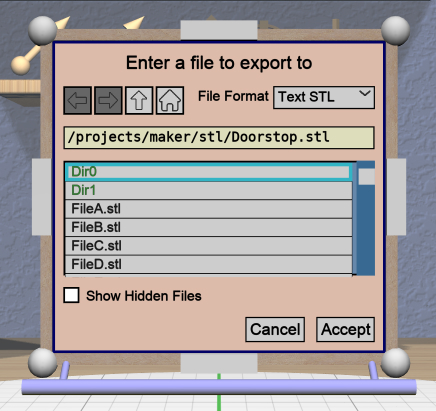
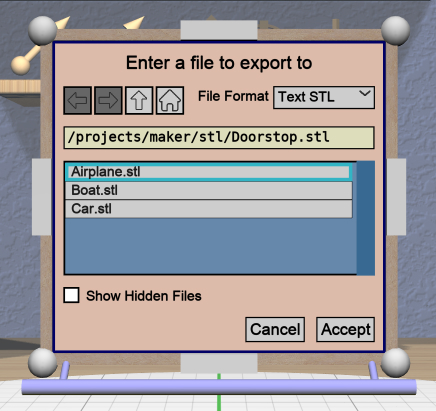
Fixed a couple of problems causing incorrect images.

Changed region(s): [[0.1491, 0.4088, 0.8349, 0.6715], [0.805, 0.4088, 0.8647, 0.4672]]

diff --git a/src/App/ScriptedApp.cpp b/src/App/ScriptedApp.cpp
@@ -79,8 +79,9 @@ class ScriptedApp::MockFilePathList_ : public FilePathList {
         return file_exists_;
     }
     virtual void TweakPath(FilePath &path, bool is_read) override {
-        // If reading from a file, change the path to a real one.
-        if (is_read) {
+        // If reading from a file and not pretending it exists, change the path
+        // to a real one.
+        if (is_read && ! file_exists_) {
             path = Util::ReplaceString(path.ToString(),
                                        "/projects/maker",
                                        "PublicDoc/sessions");
